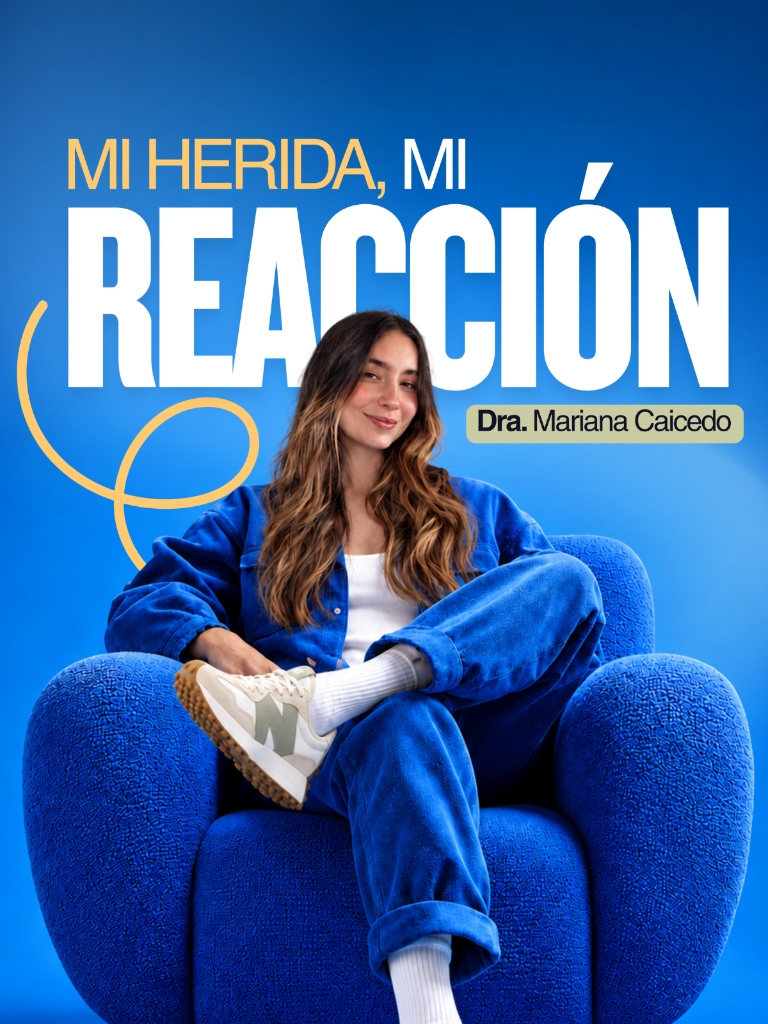
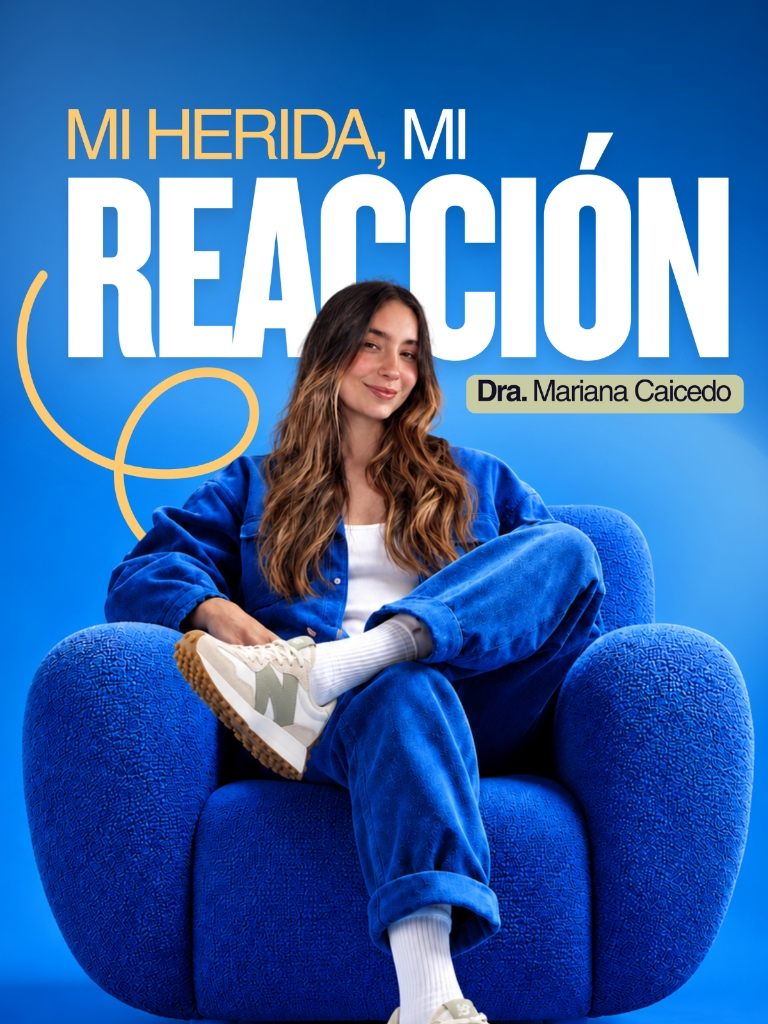
feat(mobile-hero): replace with final 3 high-res campaign photos

diff --git a/src/components/home/CinemaHero.tsx b/src/components/home/CinemaHero.tsx
@@ -77,8 +77,8 @@ export function CinemaHero() {
       tag: language === "es" ? "PSICOLOGÍA CLÍNICA • BIENESTAR" : "CLINICAL PSYCHOLOGY • WELLNESS",
       title: "",
       image: "/images/mobile-hero/slide-3.jpg",
-      bottomTitle: language === "es" ? "Terapia Online 1 a 1" : "Online Therapy 1 on 1",
-      bottomSubtitle: language === "es" ? "Acompañamiento personalizado" : "Personalized guidance",
+      bottomTitle: language === "es" ? "Tu sesión psicológica a un clic" : "Your psychological session in one click",
+      bottomSubtitle: language === "es" ? "Dra. Mariana Caicedo" : "Dr. Mariana Caicedo",
       href: "/#agendamiento",
     },
   ], [language])
